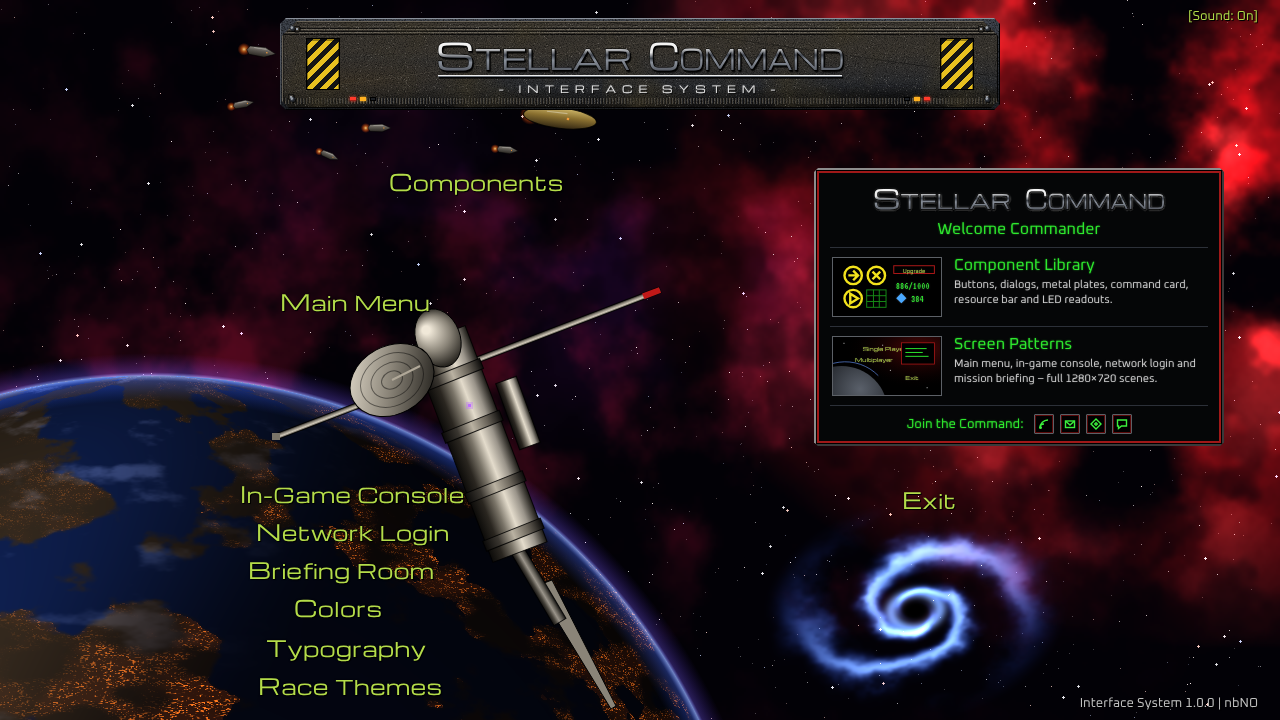
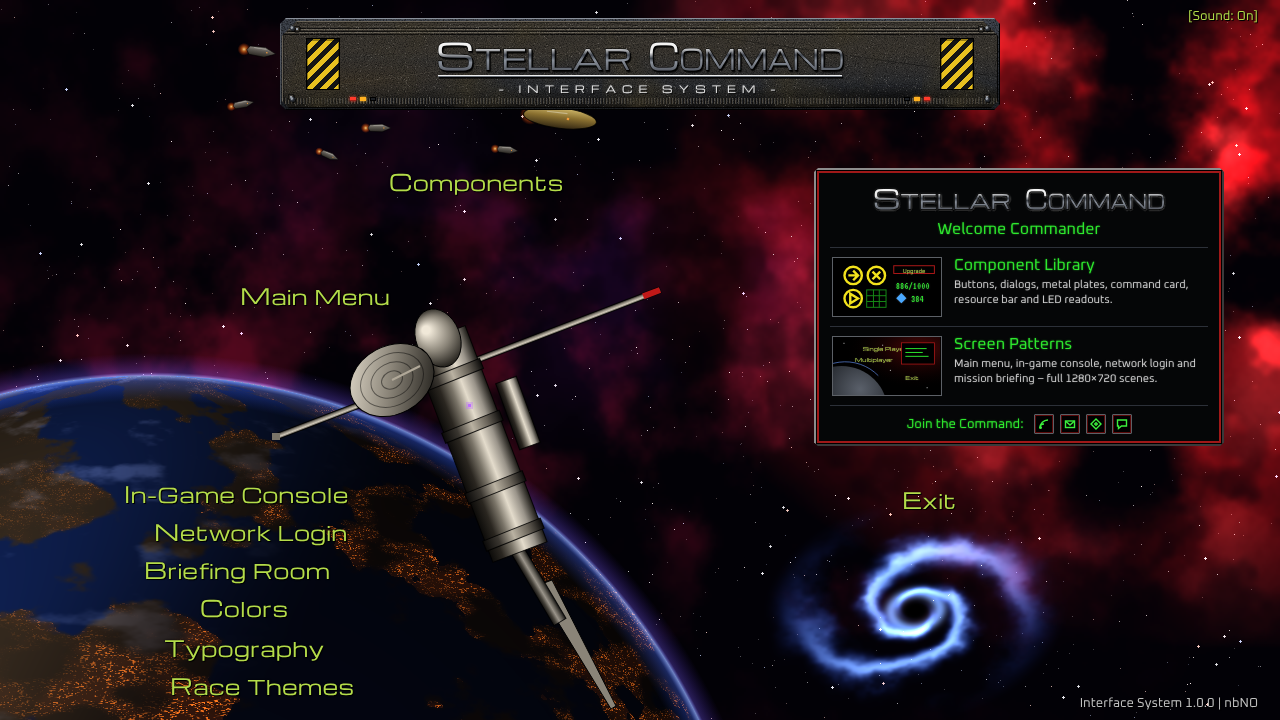
SC1 design system: briefing stopped at round limit (3)
Claude-Session: https://claude.ai/code/session_01U4BJEL1DunDjrFQzZedLxi

diff --git a/sc1-design-system/index.html b/sc1-design-system/index.html
@@ -54,13 +54,13 @@
 
     <nav class="ix-menu" aria-label="Design system">
       <a class="sc-menu-link" href="components.html" style="left:385px;top:166px">Components</a>
-      <a class="sc-menu-link" href="patterns/main-menu.html" style="left:276px;top:286px">Main Menu</a>
-      <a class="sc-menu-link" href="patterns/ingame.html" style="left:236px;top:478px">In-Game Console</a>
-      <a class="sc-menu-link" href="patterns/battlenet.html" style="left:252px;top:516px">Network Login</a>
-      <a class="sc-menu-link" href="patterns/briefing.html" style="left:244px;top:554px">Briefing Room</a>
-      <a class="sc-menu-link" href="#colors" style="left:290px;top:592px">Colors</a>
-      <a class="sc-menu-link" href="#type" style="left:262px;top:632px">Typography</a>
-      <a class="sc-menu-link" href="#races" style="left:254px;top:670px">Race Themes</a>
+      <a class="sc-menu-link" href="patterns/main-menu.html" style="left:236px;top:280px">Main Menu</a>
+      <a class="sc-menu-link" href="patterns/ingame.html" style="left:120px;top:478px">In-Game Console</a>
+      <a class="sc-menu-link" href="patterns/battlenet.html" style="left:150px;top:516px">Network Login</a>
+      <a class="sc-menu-link" href="patterns/briefing.html" style="left:140px;top:554px">Briefing Room</a>
+      <a class="sc-menu-link" href="#colors" style="left:196px;top:592px">Colors</a>
+      <a class="sc-menu-link" href="#type" style="left:160px;top:632px">Typography</a>
+      <a class="sc-menu-link" href="#races" style="left:166px;top:670px">Race Themes</a>
       <button class="sc-menu-link" type="button" data-sfx="error" style="left:898px;top:484px" title="Nothing to exit from here">Exit</button>
     </nav>
 

diff --git a/sc1-design-system/TASKS.md b/sc1-design-system/TASKS.md
@@ -6,5 +6,5 @@ Status: [ ] gjenstår · [~] pågår · [x] godkjent · [!] stoppet ved rundegre
 - [~] A. Komponenter: css/components.css + components.html (knapper, dialoger, paneler, kommandokort, ressurslinje, wireframe, LED, skjema) – R1: rød dialog GODKJENT; blå meny (P7=6), Terran-metall (P3=5), Protoss (P3=4) AVVIST · R2 AVVIST (Terran P3=7, blå P7=7, Protoss P3=6) → runde 3 (siste)
 - [~] B. Mønstre: css/patterns.css + js/scene.js + patterns/main-menu.html + patterns/ingame.html (glue screen, Terran/Protoss/Zerg-konsoll, Game Menu) – R1 AVVIST (meny P8=6, Terran P3=6, Protoss P3=5) → runde 2
 - [~] C. Battle.net + lyd + forside: patterns/battlenet.html + js/sc-audio.js + index.html (tokens, typografi, lenker, rase-bytter) – R1 AVVIST (bnet P2/P7/P10=6, forside P8=4) · R2 AVVIST (bnet P9=6 «tre», forside P8=5) → runde 3 (siste): forside gjenbruker Bs scene
-- [~] D. Briefing: patterns/briefing.html + css/briefing.css + js/briefing.js – R1 AVVIST (P11=6) · R2 AVVIST (P2/P7=8, P10/P11=7: rommet for rent) → R3 levert, kritiker vurderer
+- [!] D. Briefing: patterns/briefing.html + css/briefing.css + js/briefing.js – R1 AVVIST (P11=6) · R2 AVVIST (P2/P7=8, P10/P11=7: rommet for rent) · R3 AVVIST (P1/P7/P10/P11=7, P2=8) → STOPPET ved rundegrense. Gjenstår: fliser ser ut som stein, rust nederst ser ut som blod, maskin for symmetrisk, tekstfelt-header for moderne «HUD», lyse portrettrammer
 - [ ] E. Helhetskritikk
